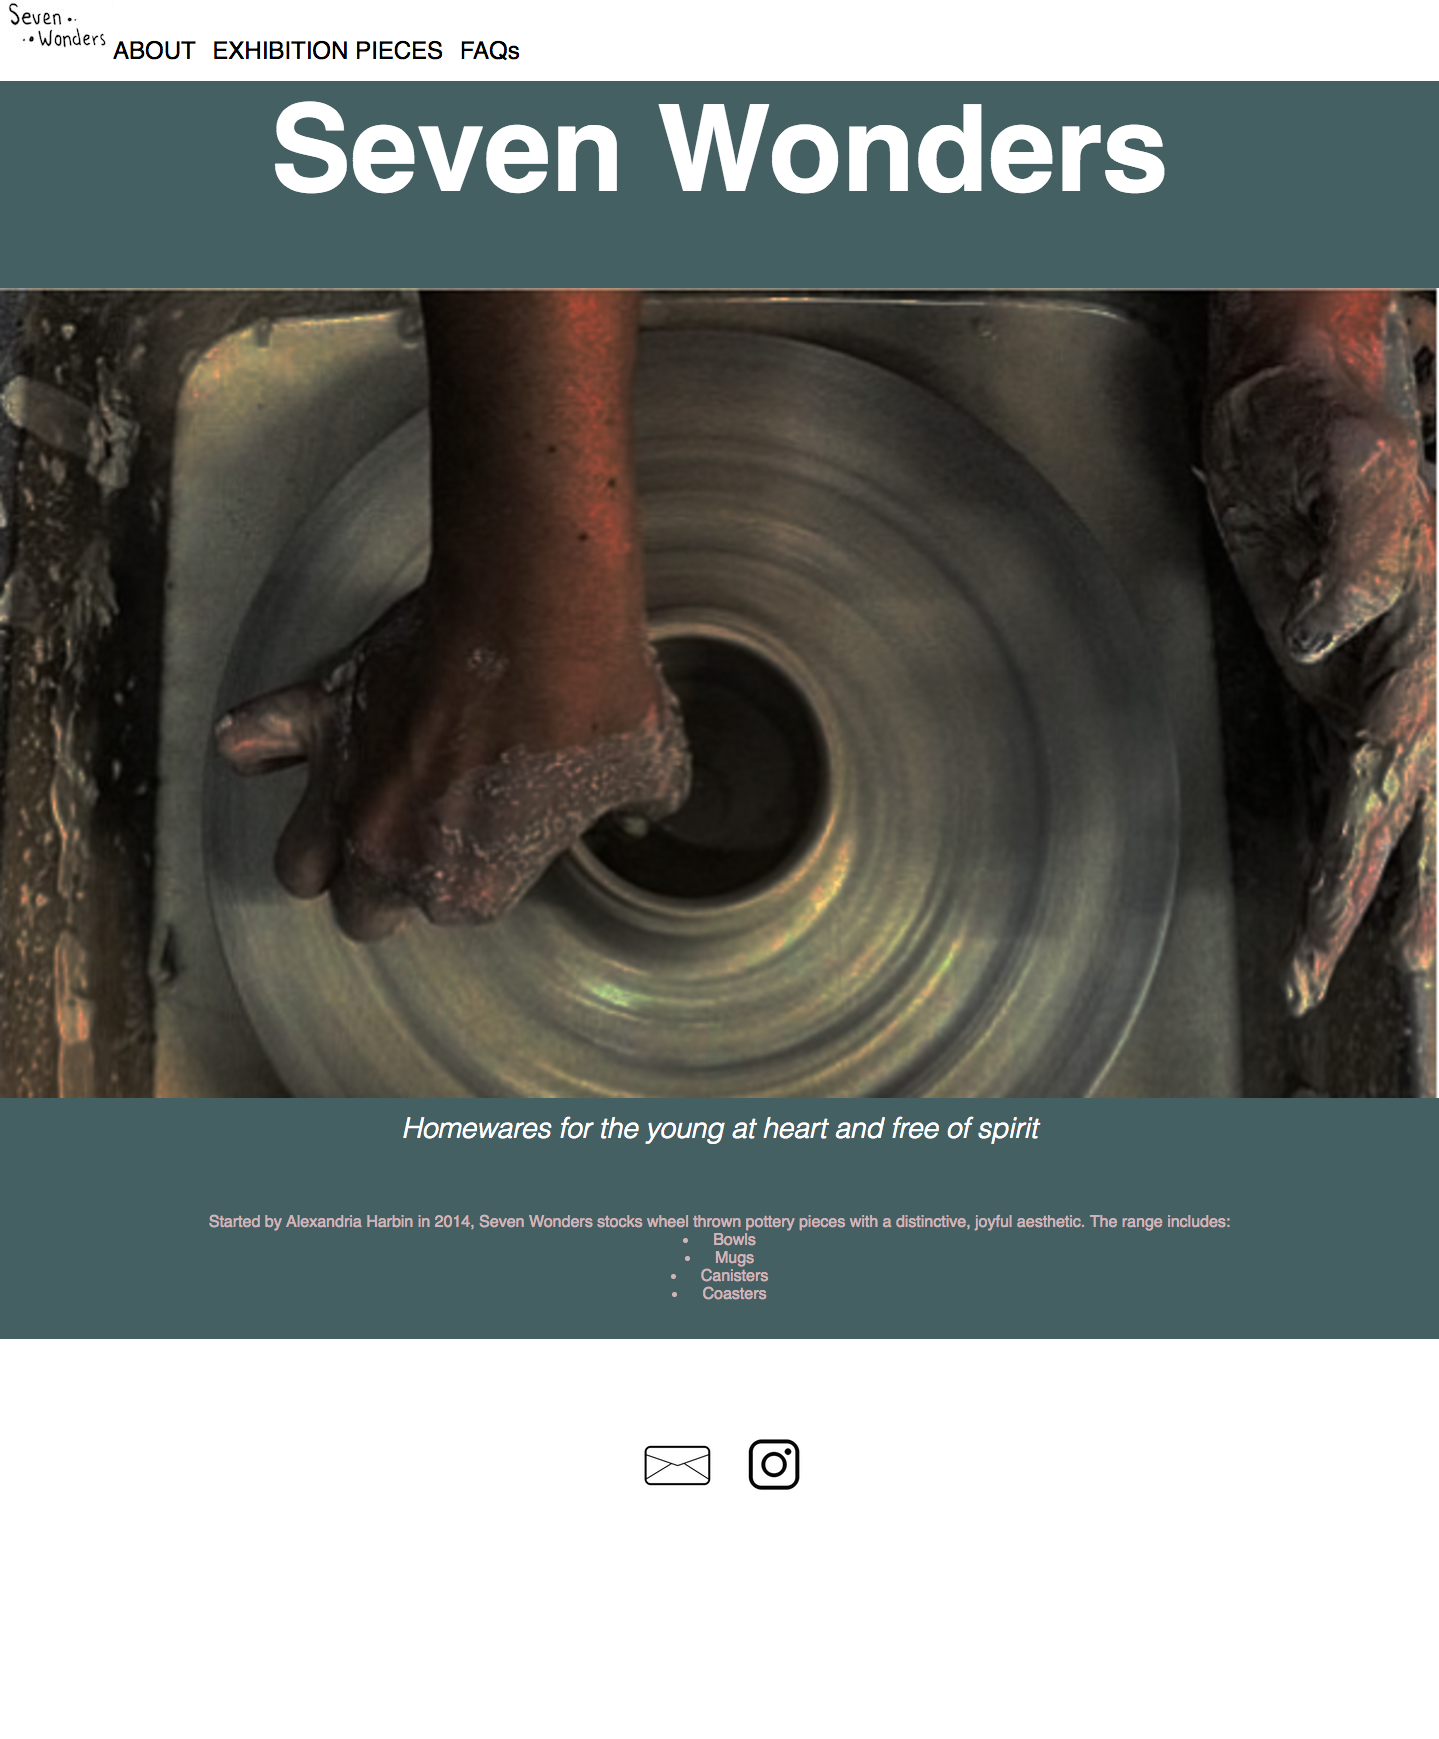
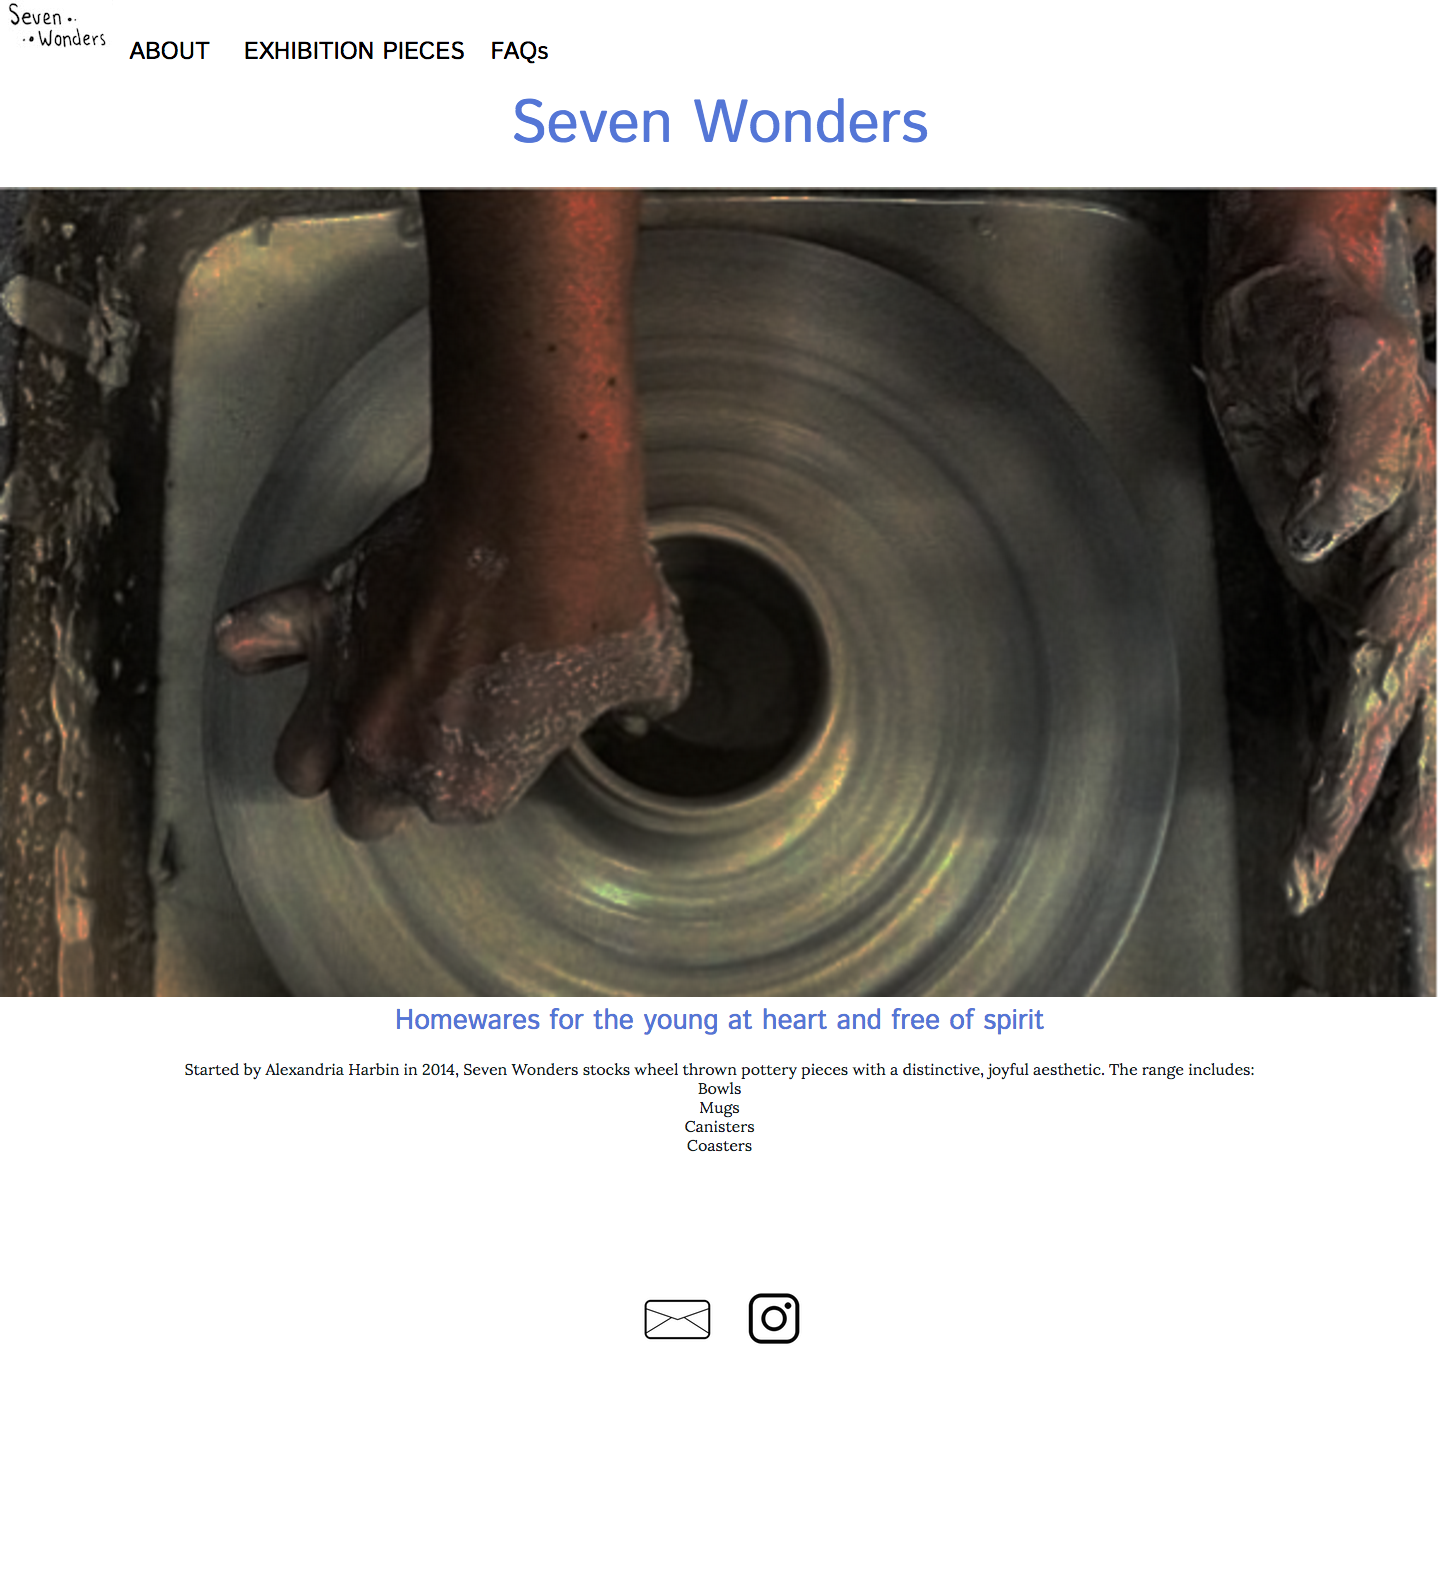
design changes

diff --git a/unit_4/css/style.css b/unit_4/css/style.css
@@ -5,16 +5,17 @@
 	}
 h1
 {
-	color: white;
+	
 	font-size:60px;
 	font-family: 'Istok Web', sans-serif;
 	font-weight:lighter;
+	color: #5476D6;
 }
 
 body
 {
-	background-color: #456063;
-	color: #CFB5BA;
+	background-color: #white;
+	color: #151E1F;
 	text-align: center;
 	font-family: Helvetica, sans-serif;
 	font-weight:300;
@@ -44,6 +45,9 @@ nav a
 	margin-right: 10px;
 }
 
+nav a:hover{
+	color: #F55739;
+}
 
 
 }
@@ -58,8 +62,10 @@ ul {
 
 #slogan
 {
-	font-style: italic;
-	font-size: 28px
+	
+	font-size: 28px;
+	color:#5476D6;
+	font-family: 'Istok Web', sans-serif;
 }
 
 .contact
